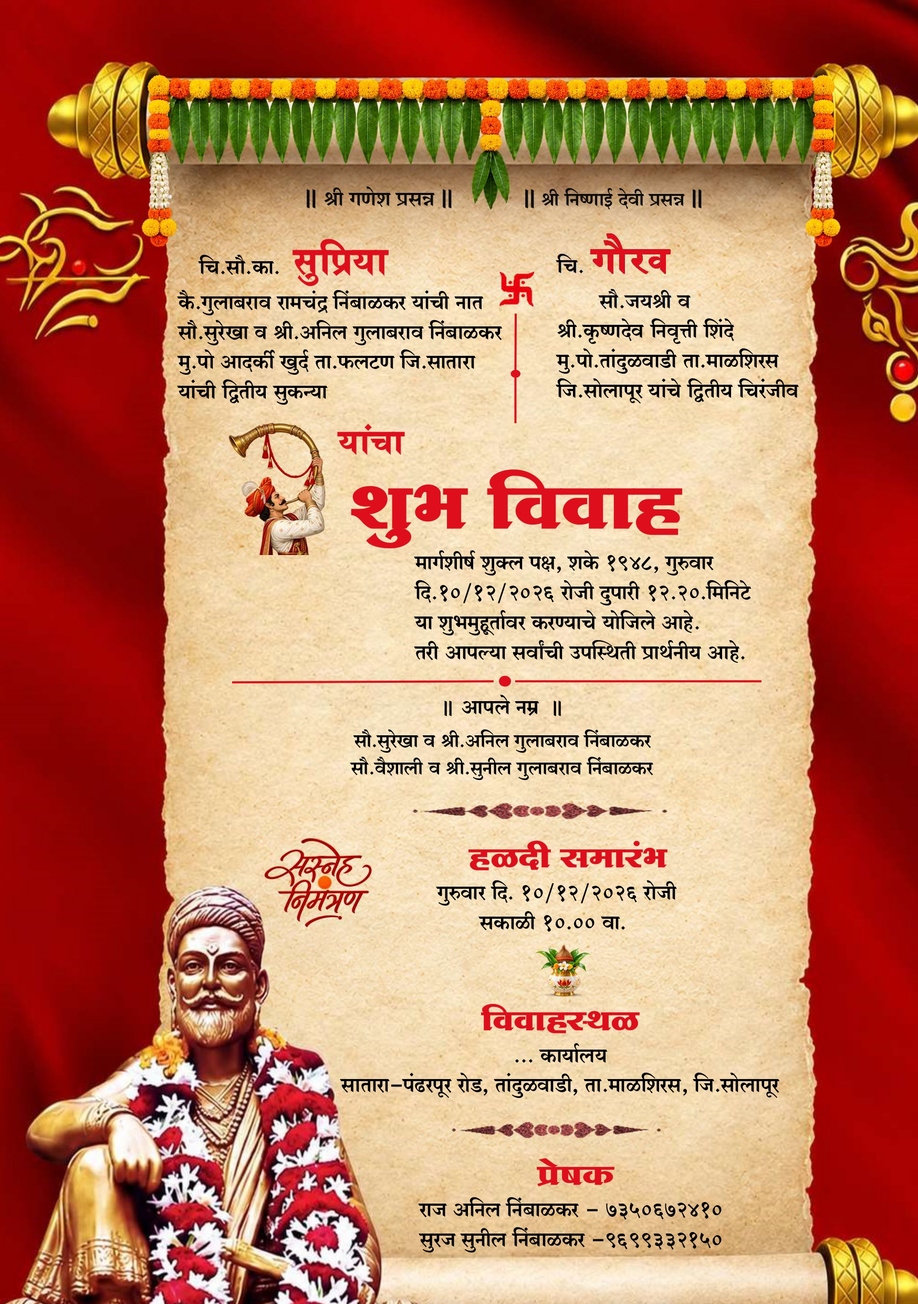
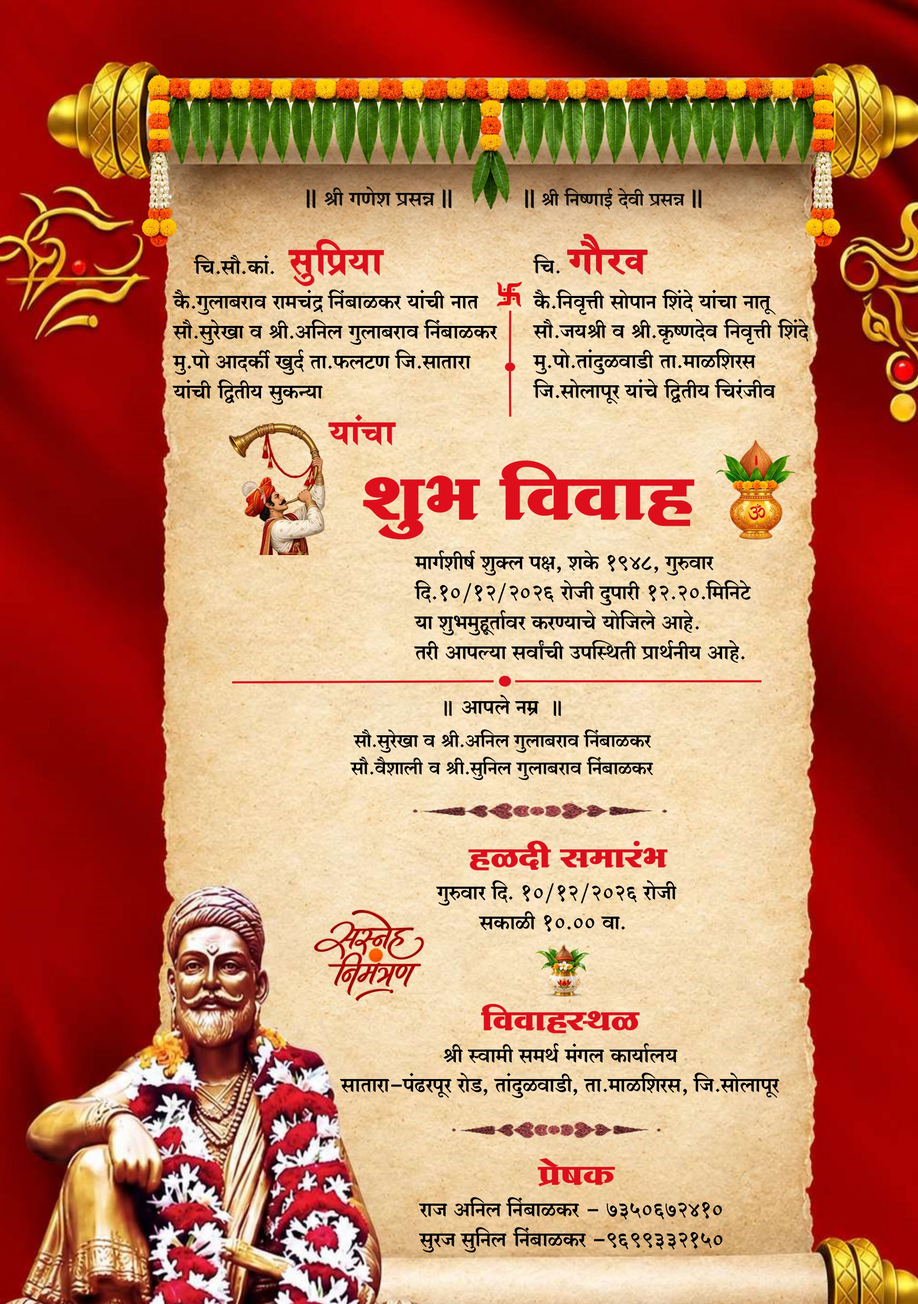
Add files via upload

diff --git a/index.html b/index.html
@@ -155,7 +155,7 @@
 
             <figure class="poster-hero-frame tilt-card" id="heroTiltCard">
                 <div class="shine-fx"></div>
-                <img src="./assets/images/wedding_card.jpg" alt="Supriya Weds Gaurav Wedding Invitation" fetchpriority="high" />
+                <img src="./assets/images/wd1.jpg" alt="Supriya Weds Gaurav Wedding Invitation" fetchpriority="high" />
             </figure>
         </div>
         <div class="scrollhint">Explore More ↓</div>
@@ -280,7 +280,7 @@
                                     <div class="person-emblem" aria-hidden="true">❀</div>
                                     <h3>चि.गौरव</h3>
                                     <p>
-                                        <strong style="color: #E8C7A0;">सौ.जयश्री व श्री.कृष्णदेव निवृत्ती शिंदे <br/>
+                                        <strong style="color: #E8C7A0;">कै.निवृत्ती सोपान शिंदे यांचा नातू <br/>सौ.जयश्री व श्री.कृष्णदेव निवृत्ती शिंदे <br/>
                                         मु.पोस्ट तांदुळवाडी ता-माळशिरस, जि-सोलापूर <br/>यांचे द्वितीय चिरंजीव </strong>
                                     </p>
                                 </div>
@@ -295,8 +295,9 @@
                                     <strong class="wedding-card-title" style="color: #F5D76E;">॥ शुभविवाह मुहूर्त ॥</strong>
 
                                     <div class="muhurt-details">
-                                        <p><span></span>विवाह दिनांक : १० डिसेंबर २०२६</p>
-                                        <p><span></span> विवाह वेळ : दुपारी १२.२० वाजता</p>
+                                        <p><span></span>दिनांक : १० डिसेंबर २०२६</p>
+                                        <p><span></span> वेळ : दुपारी १२.२० वाजता</p>
+                                        <p><span></span> विवाह स्थळ : श्री स्वामी समर्थ मंगल कार्यालय,<br/> सातारा-पंढरपूर रोड, तांदुळवाडी, ता.माळशिरस, जि.सोलापूर </p>
                                     </div>
 
                                     <div class="blessing-space">
@@ -323,44 +324,50 @@
                         <!-- BOX 3 : FAMILY & RELATIVES -->
                         <div class="wedding-info-card relatives-card" style="background-color: #4A1428;">
                             <strong class="wedding-card-title" style="color: #F5D76E;">॥ आप्तेष्ट व परिवार ॥</strong>
-                            <span style="color: #faf0c9;font-size: small;">श्रीमती. चतुरा यशवंत निंबाळकर</span>
-                            <div class="relatives-names">
+                            <span style="color: #faf0c9; font-size: small; text-align: center; display: block; line-height: 1.8;">
+                            <span style="display: block;">श्रीमती. चतुरा यशवंत निंबाळकर</span>
+                            <span style="display: block;">श्रीमती. वंदना विठ्ठलराव मोहिते</span>
+                            </span>
 
+
+                            <div class="relatives-names">
                                 <div class="relatives-column">
-                                    <span>सौ.विद्या व श्री.दत्तात्रय यशवंत निंबाळकर</span>
-                                    <span>सौ.सीमा व श्री.नितीन निंबाळकर</span>
+                                    <span>सौ.विद्या व श्री.दत्ताराम यशवंत निंबाळकर(पत्रकार)</span>
+                                    <span>सौ.सिमा व श्री.नितीन निंबाळकर</span>
                                     <span>सौ.पल्लवी व श्री.किरण विनायक निंबाळकर</span>
-                                    <span>सौ.प्रियांका व श्री.विनोद दत्तात्रय निंबाळकर</span>
+                                    <span>सौ.प्रियांका व श्री.विनोद दत्ताराम निंबाळकर</span>
                                     <span>सौ.ताराबाई व श्री.शिवाजी नानासो निंबाळकर </span>
-                                    <span>सौ.कुसुम व  श्री.मुरलीधर भाऊसो निंबाळकर </span>
+                                    <span>सौ.कुसुम व  श्री.मुरलीधर भाऊसो निंबाळकर(माजी पोलीस पाटील) </span>
                                     <span>सौ.कांता व  श्री.प्रभाकर भाऊसो निंबाळकर </span>
-                                    <span>सौ.अंजना व  श्री.हनुमंत चंदरराव निंबाळकर </span>
-                                    <span>सौ.मीना व  श्री.महादेव बाबुराव निंबाळकर </span>
+                                    <span>सौ.अंजना व  श्री.हणमंत चंदरराव निंबाळकर </span>
+                                    <span>सौ.मिना व  श्री.महादेव बाबुराव निंबाळकर </span>
                                     <span>सौ.राणी  व  श्री.प्रभाकर नारायण निंबाळकर </span>
-                                    <span>सौ.शांताबाई  व  श्री.हनुमंत नानासो निंबाळकर </span>
+                                    <span>सौ.शांताबाई  व  श्री.हणमंत नानासो निंबाळकर </span>
                                     <span>सौ.सुरेखा व  श्री.जगन्नाथ कृष्णा निंबाळकर </span>
                                     <span>सौ.कल्पना  व  श्री.जयप्रकाश आनंदराव देशमुख </span>
-                                    <span>सौ.अल्का व  श्री.शशिकांत हनुमंत निंबाळकर </span>
-                                    <span>सौ.शीतल  व  श्री.लखन किसन निंबाळकर </span>
+                                    <span>सौ.संगिता व श्री.उदयसिह बाबुराव निंबाळकर</span>
+                                    <span>सौ.अल्का व  श्री.शशिकांत हणमंत निंबाळकर </span>
+                                    <span>सौ.शितल  व  श्री.लखन किसन निंबाळकर </span>
                                     <span>सौ.रुतुजा व  श्री.अतुल दत्तात्रय निंबाळकर </span>
                                     <span>श्री.महादेव सदाशिव निंबाळकर </span>
 
                                 </div>
 
                                 <div class="relatives-column">
-                                    <span>सौ. कौसल्या व श्री. किसन चंदरराव निंबाळकर</span>
+                                    <span>सौ.कौसल्या व श्री. किसन चंदरराव निंबाळकर</span>
                                     <span>सौ.रंजना  व  श्री.अंकुश रावसाहेब निंबाळकर </span>
                                     <span>सौ.उज्वला  व  श्री.शंकरराव निंबाळकर </span>
                                     <span>सौ.अर्चना  व  श्री.मधुकर सदाशिव निंबाळकर </span>
                                     <span>सौ.सोनाली  व  श्री.रामभाऊ रावसाहेब निंबाळकर </span>
                                     <span>सौ.हेमा व  श्री.लक्ष्मण रावसाहेब निंबाळकर </span>
-                                    <span>सौ.संगीता  व  श्री.दिलीप जगदेवराव निंबाळकर </span>
+                                    <span>सौ.संगिता  व  श्री.दिलीप जगदेवराव निंबाळकर </span>
                                     <span>सौ.शालन  व  श्री.सुभाष आनंदराव निंबाळकर </span>
                                     <span>सौ.मंदाकिनी  व  श्री.कालिदास रामचंद्र निंबाळकर  </span>
                                     <span>सौ.मंगल  व  श्री.रमेश खंडेराव निंबाळकर </span>
-                                    <span>सौ.पूजा व  श्री.हिम्मत हनुमंत निंबाळकर </span>
+                                    <span>सौ.पुजा व  श्री.हिम्मत हनुमंत निंबाळकर </span>
+                                    <span>सौ.शारदा व श्री. दत्तात्रय रामचंद्र बर्गे</span>
                                     <span>सौ.प्रियांका व  श्री.विक्रम दत्तात्रय बर्गे  </span>
-                                    <span>श्री.गणेश विठ्ठल मोहिते (मामा) </span>
+                                    <span>श्री.गणेश विठ्ठलराव मोहिते (मामा) </span>
                                     <span>सौ.सारिका व  श्री.संतोष उत्तम मोहिते(मामा) </span>
                                     <span>सौ.शालन रामदास भोसले(आत्या)</span>
                                     <span>सौ.रंजना आण्णा यादव(मावशी)</span>
@@ -381,10 +388,11 @@
                         <div class="welcome-names">
 
                             <div class="name-column">
-                                <span>श्री. प्रभाकर भाऊसो निंबाळकर</span>
-                                <span>श्री. सूर्यकांत शिवाजी निंबाळकर</span>
-                                <span>श्री. हनुमंत चंदरराव निंबाळकर</span>
-                                <span>श्री. सचिन हनमंत निंबाळकर </span>
+                                <span>श्री. प्रभाकर भाऊसो निंबाळकर(माजी सैनिक)</span>
+                                <span>श्री. सूर्यकांत शिवाजी निंबाळकर(लोकमत पत्रकार)</span>
+                                <span>श्री. हणमंत चंदरराव निंबाळकर</span>
+                                <span>श्री. प्रदिप देविदास निंबाळकर</span>
+                                <span>श्री. सचिन हणमंत निंबाळकर </span>
                                 <span>श्री. दत्तात्रय उत्तम निंबाळकर</span>
                                 <span>श्री. पृथ्वीराजे मुरलीधर निंबाळकर </span>
                             </div>
@@ -395,6 +403,7 @@
                                 <span>श्री. नितीन सुभाष देशमुख </span>
                                 <span>श्री. महेश दिलीप निंबाळकर </span>
                                 <span>श्री. विलास सदाशिव निंबाळकर </span>
+                                <span>श्री. दत्तात्रय रामचंद्र बर्गे</span>
                                 <span>श्री. प्रशांत धनाजी मोहिते</span>
                             </div>
 
@@ -419,7 +428,7 @@
                                 <span>श्री. मंगेश शंकरराव निंबाळकर</span>
                                 <span>श्री. मच्छिंद्र तानाजी निंबाळकर</span>
                                 <span>श्री. पोपट यशवंत निंबाळकर</span>
-                                <span>श्री. अनुप उदय निंबाळकर </span>
+                                <span>श्री. अनुप उदयसिह निंबाळकर </span>
                                 <span>श्री. शेखर दत्तात्रय निंबाळकर </span>
                                 <span>श्री. विनम्र विलास निंबाळकर</span>
                                 <span>श्री. हर्षल शशिकांत निंबाळकर</span>
@@ -428,10 +437,11 @@
                             <div class="name-column">
                                 <span>श्री. सखाराम उत्तम निंबाळकर </span>
                                 <span>श्री. निखील लक्ष्मण निंबाळकर</span>
-                                <span>श्री. शहाजी शिंदे </span>
-                                <span>श्री. विनोद घोरपडे</span>
-                                <span>श्री. सोहम महेश शिंदे </span>
+                                <span>श्री. शुभम रविंद्र निंबाळकर </span>
                                 <span>श्री. प्रज्वल हिम्मत निंबाळकर </span>
+                                <span>श्री. शहाजी शंकर शिंदे </span>
+                                <span>श्री. विनोद बाळासाहेब घोरपडे</span>
+                                <span>श्री. सोहम महेश शिंदे </span>
                                 <span>श्री. अक्षय आण्णा यादव </span>
                                 <span>श्री. अजिंक्य आण्णा यादव</span>
                                 <span>श्री. निखील विनोद निकम</span>
@@ -452,6 +462,7 @@
                             <span>क्रिशा,</span>
                             <span>वैष्णवी,</span>
                             <span>पूर्वा,</span>
+                            <span>अनुष्का</span>
                             <span>श्रावणी,</span>
                             <span>रुद्रनील,</span>
                             <span>अद्वैत,</span>
@@ -476,100 +487,113 @@
                         </div>
                     </div>
                 </section>
+
+
+
+
                 <!-- BOX 3 : PRERAK -->
-                <div class="family-member-card" style="background-color: #4A1428;">
-                    <strong class="family-card-title" style="color: #F5D76E;">॥ प्रेषक ॥</strong>
+                <section>
+                    <div class="family-member-card" style="background-color: #4A1428;">
+                        <strong class="family-card-title" style="color: #F5D76E;">॥ प्रेषक ॥</strong>
 
-                    <div class="family-card-content sender-details">
-
-                        <p>
-                            <strong>राज अनिल निंबाळकर : 7350672410  </strong>
-
-                        </p>
-
-                        <p>
-                            <strong>सुरज सुनिल निंबाळकर : 9699332150</strong>
-
-                        </p>
-
+                        <div class="family-card-content sender-details">
+                            <p><strong>राज अनिल निंबाळकर : 7350672410 / 7719015178</strong></p>
+                            <p><strong>सुरज सुनिल निंबाळकर : 9699332150/ 9561412683 </strong></p>
+                        </div>
                     </div>
-                </div>
-
-            </div>
-            </div>
+                </section>
+                <br/>
 
 
-            <!-- Invitation Cards Downloads Section -->
-            <!-- Invitation Cards Downloads Section -->
-            <section class="section cards-section" id="cards" style="background-color: #4A1428;">
-                <div class="section-inner">
 
-                    <div class="section-heading reveal">
-                        <div class="overline"></div>
+                <!-- BOX 4 : VYAVASTHAPAK -->
+                <section>
+                    <div class="family-member-card" style="background-color: #4A1428;">
+                        <strong class="family-card-title" style="color: #F5D76E;">॥ व्यवस्थापक ॥</strong>
 
-                        <h3 style="color: #F5D76E;">✦ मंगलमय निमंत्रण ✦</h3>
-                        <h2 style="color: #F5D76E;">विवाह निमंत्रणपत्रिका</h2>
+                        <div class="family-card-content sender-details">
+                            <p><strong>द ग्रेट मराठा मित्र मंडळ, आदर्की खुर्द, ता.फलटण, जि.सातारा</strong></p>
 
-                        <p style="color: #F5D76E;">
-                            पत्रिका पाहण्यासाठी त्यावर टॅप करा किंवा सुंदर आठवण म्हणून जतन करण्यासाठी थेट डाउनलोड करा.
-                        </p>
+                        </div>
                     </div>
+                </section>
 
-                    <div class="card-gallery">
 
-                        <!-- Card 1: Shubh Vivah -->
-                        <article class="card-tile reveal tilt-card">
 
-                            <div class="shine-fx"></div>
 
-                            <div class="card-tile-head">
-                                <h3>शुभ विवाह निमंत्रण पत्र</h3>
-                                <span>सुप्रिया &amp; गौरव</span>
-                            </div>
 
-                            <button class="card-image-button" type="button" onclick="openCard('gold')" aria-label="संपूर्ण विवाह पत्रिका पहा.">
+
+                <!-- Invitation Cards Downloads Section -->
+                <!-- Invitation Cards Downloads Section -->
+                <section class="section cards-section" id="cards" style="background-color: #4A1428;">
+                    <div class="section-inner">
+
+                        <div class="section-heading reveal">
+                            <div class="overline"></div>
+
+                            <h3 style="color: #F5D76E;">✦ मंगलमय निमंत्रण ✦</h3>
+                            <h2 style="color: #F5D76E;">विवाह निमंत्रणपत्रिका</h2>
+
+                            <p style="color: #F5D76E;">
+                                पत्रिका पाहण्यासाठी त्यावर टॅप करा किंवा सुंदर आठवण म्हणून जतन करण्यासाठी थेट डाउनलोड करा.
+                            </p>
+                        </div>
+
+                        <div class="card-gallery">
+
+                            <!-- Card 1: Shubh Vivah -->
+                            <article class="card-tile reveal tilt-card">
+
+                                <div class="shine-fx"></div>
+
+                                <div class="card-tile-head">
+                                    <h3>शुभ विवाह निमंत्रण पत्र</h3>
+                                    <span>सुप्रिया &amp; गौरव</span>
+                                </div>
+
+                                <button class="card-image-button" type="button" onclick="openCard('gold')" aria-label="संपूर्ण विवाह पत्रिका पहा.">
 
                     <img id="goldCard"
-                        src="./assets/images/wedding_card.jpg"
+                        src="./assets/images/wd1.jpg"
                         alt="Shubh Vivah HD Invitation Card"
                         loading="lazy"/>
                 </button>
 
-                            <div class="tile-actions">
+                                <div class="tile-actions">
 
-                                <button class="btn btn-gold" type="button" onclick="downloadCard('gold')">
+                                    <button class="btn btn-gold" type="button" onclick="downloadCard('gold')">
                         📥 Download Card (HD)
                     </button>
 
-                                <button class="btn btn-outline" type="button" onclick="openCard('gold')">
+                                    <button class="btn btn-outline" type="button" onclick="openCard('gold')">
                         View Larger ↗
                     </button>
 
-                            </div>
-                        </article>
+                                </div>
+                            </article>
 
+                        </div>
                     </div>
-                </div>
-            </section>
+                </section>
 
 
 
-            <!-- Venue Map Section -->
-            <section class="venue-map-section" id="wedding-location" aria-labelledby="venue-map-title">
-                <div class="venue-map-inner reveal">
-                    <div class="venue-map-ornament">✦ 卐 ✦</div>
-                    <p class="venue-map-kicker"></p>
-                    <h3 style="color: #F5D76E;">विवाह सोहळ्याचे स्थळ</h3>
-                    <h2 id="venue-map-title" style="color: #F5D76E;">श्री स्वामी समर्थ मंगल कार्यालय</h2>
+                <!-- Venue Map Section -->
+                <section class="venue-map-section" id="wedding-location" aria-labelledby="venue-map-title">
+                    <div class="venue-map-inner reveal">
+                        <div class="venue-map-ornament">✦ 卐 ✦</div>
+                        <p class="venue-map-kicker"></p>
+                        <h3 style="color: #F5D76E;">विवाह सोहळ्याचे स्थळ</h3>
+                        <h2 id="venue-map-title" style="color: #F5D76E;">श्री स्वामी समर्थ मंगल कार्यालय</h2>
 
-                    <strong style="color: #F5D76E;">सातारा-पंढरपूर रोड ,<br/> मु.पोस्ट तांदुळवाडी, ता-माळशिरस, जि-सोलापूर</strong>
-                    </p>
-                    <a class="venue-map-button" href="https://maps.app.goo.gl/7JdVsmZbqRgDXfRr5" target="_blank" rel="noopener noreferrer" aria-label="श्री स्वामी समर्थ मंगल कार्यालय , सातारा-पंढरपूर रोड , मु.पोस्ट.तांदुळवाडी ,ता.माळशिरस ,जि.सोलापूर" style="color: #F5D76E;">
+                        <strong style="color: #F5D76E;">सातारा-पंढरपूर रोड ,<br/> मु.पोस्ट तांदुळवाडी, ता-माळशिरस, जि-सोलापूर</strong>
+                        </p>
+                        <a class="venue-map-button" href="https://maps.app.goo.gl/7JdVsmZbqRgDXfRr5" target="_blank" rel="noopener noreferrer" aria-label="श्री स्वामी समर्थ मंगल कार्यालय , सातारा-पंढरपूर रोड , मु.पोस्ट.तांदुळवाडी ,ता.माळशिरस ,जि.सोलापूर" style="color: #F5D76E;">
           ⌖ &nbsp;  कार्यालयाचे ठिकाण व मार्ग  ↗
         </a>
-                    <div class="venue-map-ornament">✦ 卐 ✦</div>
-                </div>
-            </section>
+                        <div class="venue-map-ornament">✦ 卐 ✦</div>
+                    </div>
+                </section>
 
     </main>
 

diff --git a/script.js b/script.js
@@ -89,7 +89,7 @@ function toggleAmbience() {
 
 function printPatrika() {
 
-    const imageUrl = './assets/images/wedding_card.jpg';
+    const imageUrl = './assets/images/wd1.jpg';
 
     const printWindow = window.open('', '_blank');
 
@@ -409,7 +409,7 @@ window.addEventListener('scroll', () => {
 // ==========================================
 const cards = {
     gold: {
-        src: './assets/images/wedding_card.jpg',
+        src: './assets/images/wd1.jpg',
         name: 'Supriya & Gaurav Wedding_Invitation card',
         caption: 'शुभ विवाह निमंत्रण पत्र '
     },
